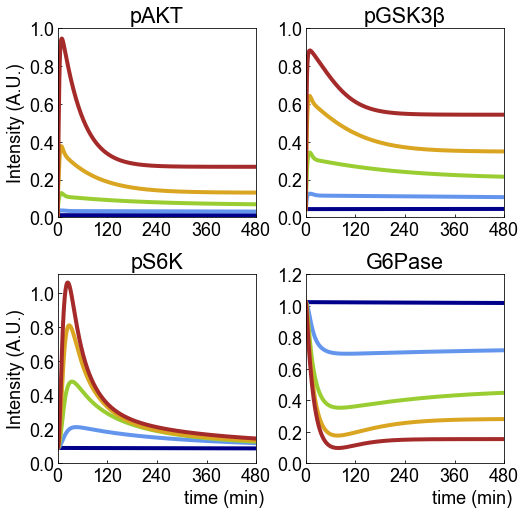
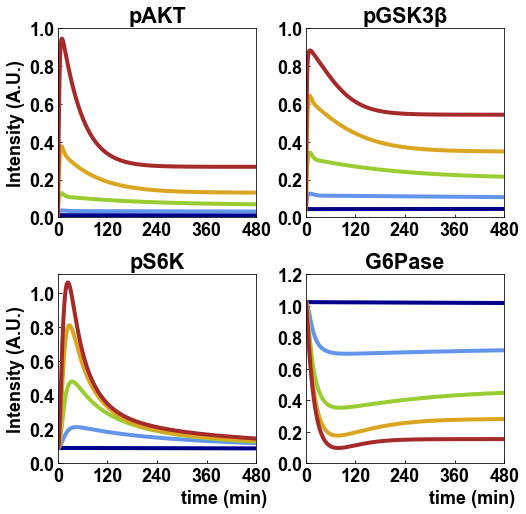
fontweight='bold'

diff --git a/Kubota2012/plot_func.py b/Kubota2012/plot_func.py
@@ -8,6 +8,7 @@ def timecourse(sim):
     plt.rcParams['font.size'] = 18
     plt.rcParams['lines.linewidth'] = 4
     plt.rcParams['lines.markersize'] = 16
+    
     plt.subplots_adjust(wspace=0.25, hspace=0.3)
 
     plt.subplot(2, 2, 1)
@@ -17,11 +18,11 @@ def timecourse(sim):
     plt.plot(sim.t, sim.pAKT[:, 3], 'goldenrod')
     plt.plot(sim.t, sim.pAKT[:, 4], 'brown')
     plt.xlim(0, 480)
-    plt.xticks([0, 120, 240, 360, 480])
+    plt.xticks([0, 120, 240, 360, 480], fontweight='bold')
     plt.ylim(0, 1)
-    plt.yticks([0, 0.2, 0.4, 0.6, 0.8, 1.0])
-    plt.ylabel('Intensity (A.U.)')
-    plt.title('pAKT')
+    plt.yticks([0, 0.2, 0.4, 0.6, 0.8, 1.0], fontweight='bold')
+    plt.ylabel('Intensity (A.U.)', fontweight='bold')
+    plt.title('pAKT', fontweight='bold')
 
     plt.subplot(2, 2, 2)
     plt.plot(sim.t, sim.pGSK3B[:, 0], 'darkblue')
@@ -30,10 +31,10 @@ def timecourse(sim):
     plt.plot(sim.t, sim.pGSK3B[:, 3], 'goldenrod')
     plt.plot(sim.t, sim.pGSK3B[:, 4], 'brown')
     plt.xlim(0, 480)
-    plt.xticks([0, 120, 240, 360, 480])
+    plt.xticks([0, 120, 240, 360, 480], fontweight='bold')
     plt.ylim(0, 1)
-    plt.yticks([0, 0.2, 0.4, 0.6, 0.8, 1.0])
-    plt.title('pGSK3β')
+    plt.yticks([0, 0.2, 0.4, 0.6, 0.8, 1.0], fontweight='bold')
+    plt.title('pGSK3β', fontweight='bold')
     
     plt.subplot(2, 2, 3)
     plt.plot(sim.t, sim.pS6K[:, 0], 'darkblue')
@@ -42,12 +43,12 @@ def timecourse(sim):
     plt.plot(sim.t, sim.pS6K[:, 3], 'goldenrod')
     plt.plot(sim.t, sim.pS6K[:, 4], 'brown')
     plt.xlim(0, 480)
-    plt.xticks([0, 120, 240, 360, 480])
+    plt.xticks([0, 120, 240, 360, 480], fontweight='bold')
     #plt.ylim(0, 1)
-    plt.yticks([0, 0.2, 0.4, 0.6, 0.8, 1.0])
-    plt.xlabel('                           time (min)')
-    plt.ylabel('Intensity (A.U.)')
-    plt.title('pS6K')
+    plt.yticks([0, 0.2, 0.4, 0.6, 0.8, 1.0], fontweight='bold')
+    plt.xlabel('                           time (min)', fontweight='bold')
+    plt.ylabel('Intensity (A.U.)', fontweight='bold')
+    plt.title('pS6K', fontweight='bold')
     
     plt.subplot(2, 2, 4)
     plt.plot(sim.t, sim.G6Pase[:, 0], 'darkblue')
@@ -56,11 +57,11 @@ def timecourse(sim):
     plt.plot(sim.t, sim.G6Pase[:, 3], 'goldenrod')
     plt.plot(sim.t, sim.G6Pase[:, 4], 'brown')
     plt.xlim(0, 480)
-    plt.xticks([0, 120, 240, 360, 480])
+    plt.xticks([0, 120, 240, 360, 480], fontweight='bold')
     plt.ylim(0, 1.2)
-    plt.yticks([0, 0.2, 0.4, 0.6, 0.8, 1.0, 1.2])
-    plt.xlabel('                           time (min)')
-    plt.title('G6Pase')
+    plt.yticks([0, 0.2, 0.4, 0.6, 0.8, 1.0, 1.2], fontweight='bold')
+    plt.xlabel('                           time (min)', fontweight='bold')
+    plt.title('G6Pase', fontweight='bold')
 
     
 
